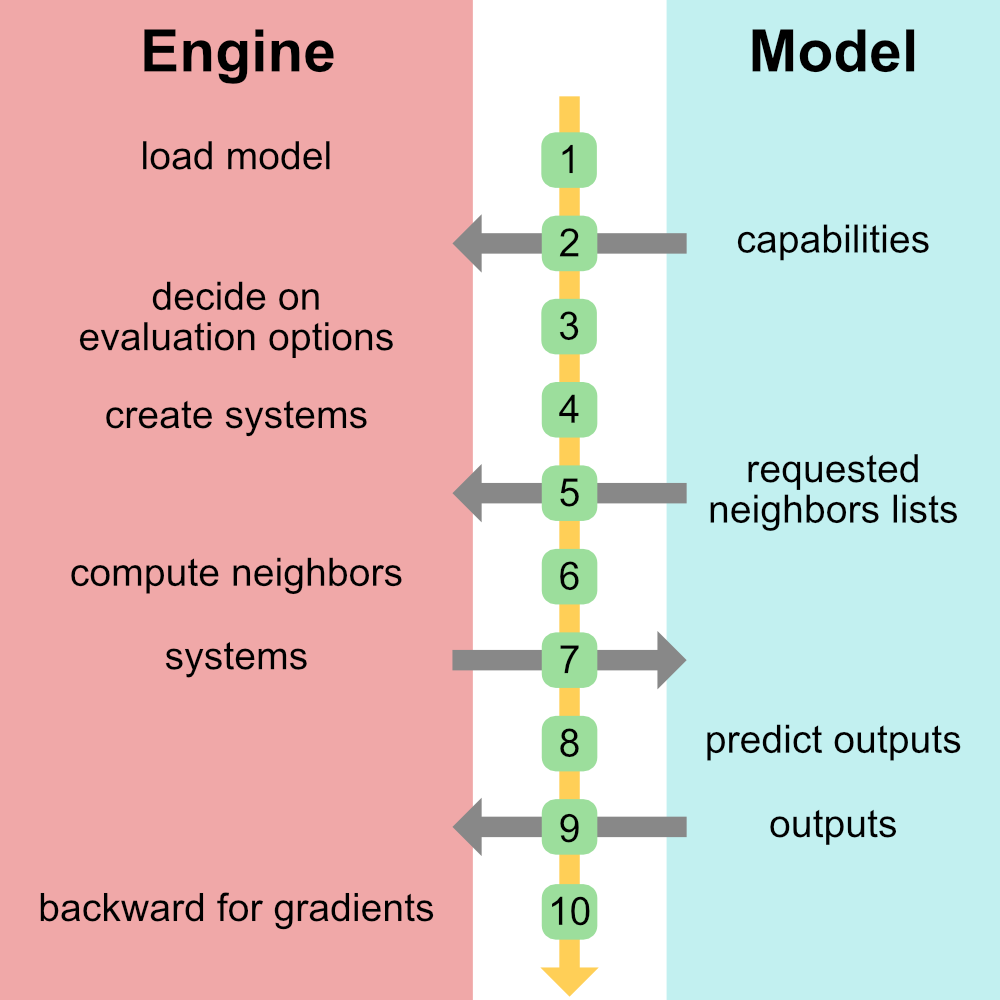
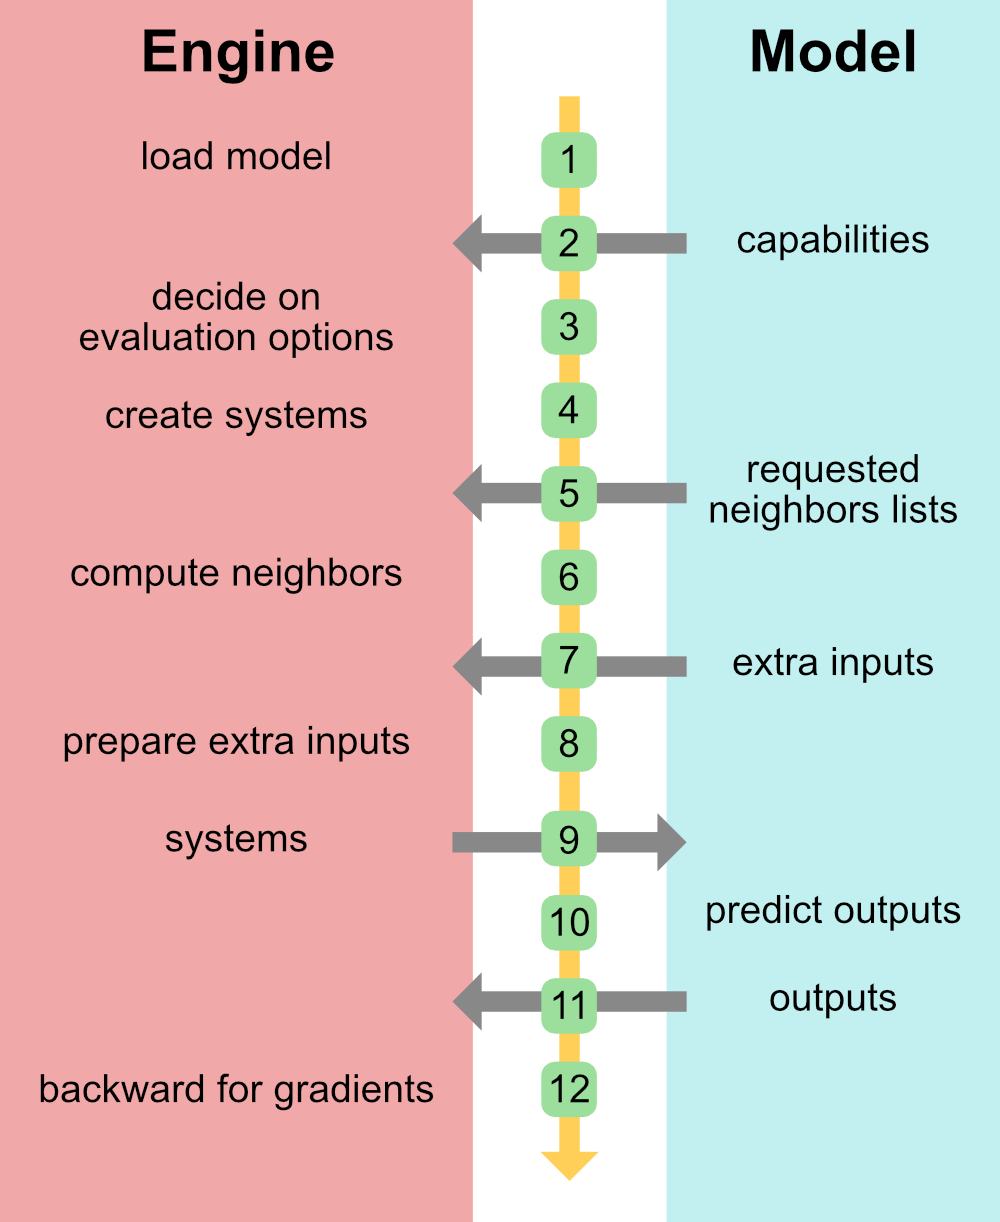
Documentation for requesting extra inputs

diff --git a/docs/src/overview.rst b/docs/src/overview.rst
@@ -269,11 +269,22 @@ below.
         used to validate that a specific engine is computing the expected set of
         pairs for integration with metatomic models.
 
-7. the engine calls the model ``forward()`` function with all the systems, the
+7. the engine asks the model for the required extra input data (if any) ;
+
+    .. tip::
+
+        This can be done by calling
+        :py:func:`AtomisticModel.requested_inputs`. This
+        function is also exported to TorchScript and can be called from C++ with
+        :cpp:func:`torch::jit::Module::run_method`.
+
+8. the engine prepares the extra input data as :py:class:`metatensor.torch.TensorMap` 
+   and registers them with all systems through :py:meth:`System.add_data`;
+9.  the engine calls the model ``forward()`` function with all the systems, the
    evaluations options and selected atoms, if any;
-8. the model runs and executes its calculations;
-9. the model returns all the requested outputs to the engine;
-10. if needed, the engine runs ``backward()`` on the outputs to get gradients of
+10. the model runs and executes its calculations;
+11. the model returns all the requested outputs to the engine;
+12. if needed, the engine runs ``backward()`` on the outputs to get gradients of
     some outputs with backward propagation;
 
     .. tip::